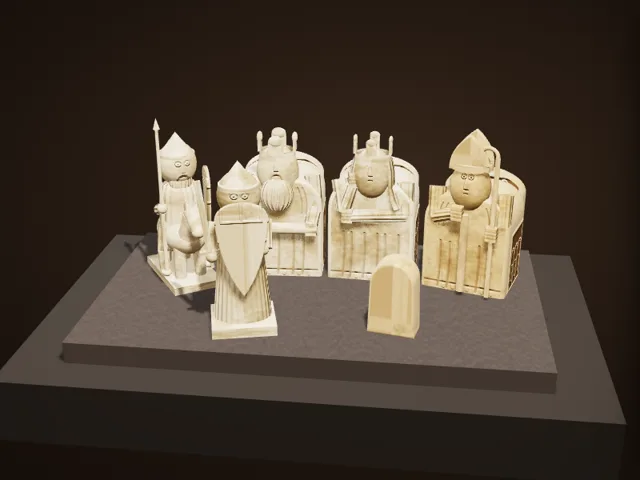
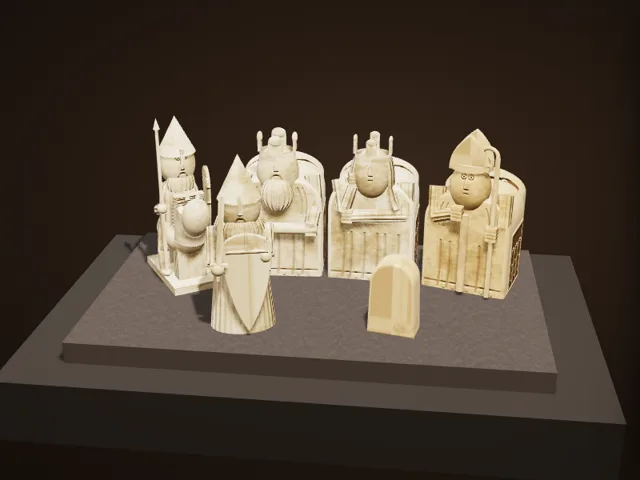
博物館：ルイス島のチェス駒の見張りと騎士を3Dスキャンに合わせて作り直し
Claude-Session: https://claude.ai/code/session_01EiWRAZTxRF5M5nk5vdR2jJ

Changed region(s): [[0.25, 0.25, 0.4375, 0.7188]]

diff --git a/atlas/museum/ex/lewis.js b/atlas/museum/ex/lewis.js
@@ -7,7 +7,8 @@
    manner of the pieces, not copied from one throne (estimate). The red that Madden saw on a few pieces in 1831 is gone today.
    2026-11-21: the ivory's colour (grey-tan, mottled with brown staining) and the seated pieces' build — one squat block with sloping
    shoulders as wide as the throne, a large long head sunk into it, the throne seen only at the sides and behind — after the British
-   Museum's 3D scans (Sketchfab). The knight and the warder are not yet reworked. */
+   Museum's 3D scans (Sketchfab); the warder and the knight too (pointed helmets with nose guards over long faces, the pony with a
+   large upright head, banded mane and legs carved as solid slabs). */
 (function () {
   'use strict';
   (window.AtlasEx = window.AtlasEx || {}).lewis = {
@@ -209,31 +210,37 @@
         add(p, new TT.BoxGeometry(2.9, .45, 5.2), IV[k], 0, .225, 0);
         const hm = robe(k, 6);
         ball(p, 1.35, hm, 0, 2.75, -.05, .95, .82, 1.75, 22);
-        [[-.62, 1.3], [.62, 1.3], [-.62, -1.4], [.62, -1.4]].forEach(([x, z]) => limb(p, V3(x, .45, z), V3(x * .9, 2.4, z * .95), .32, .4, IV[k], 10));
-        limb(p, V3(0, 3.1, 1.55), V3(0, 4.55, 2.15), .7, .5, IV[k], 14);
-        const hd = limb(p, V3(0, 4.75, 2.05), V3(0, 3.85, 2.95), .48, .36, IV[k], 12); ball(p, .38, IV[k], 0, 3.82, 2.98, 1, .9, 1.1, 12);
-        [-1, 1].forEach(s => { const e = add(p, new TT.ConeGeometry(.12, .4, 8), IV[k], s * .22, 5.1, 2.05); e.rotation.x = -.3; });
-        add(p, new TT.BoxGeometry(.18, .55, 1.9), braid(k), 0, 4.2, 1.75).rotation.x = .75;   // the mane
+        [1.25, -1.35].forEach(z => { const lg = add(p, new TT.BoxGeometry(1.7, 2.1, .85), robe(k, 4), 0, 1.45, z); });   // the legs carved as two solid slabs (front and back pairs), as in the scan
+        // the pony's head: large and upright before the rider's chest, a broad striped mane down its neck (the scan)
+        limb(p, V3(0, 3.0, 1.6), V3(0, 4.9, 2.1), .95, .8, IV[k], 16);
+        const hd = ball(p, 1, IV[k], 0, 4.6, 2.75, .8, 1.25, .75, 18); hd.rotation.x = .35;
+        [-1, 1].forEach(s => { const e = add(p, new TT.ConeGeometry(.16, .5, 8), IV[k], s * .3, 5.85, 2.35); e.rotation.x = -.2; });
+        const mane = add(p, new TT.BoxGeometry(1.75, 1.9, .3), braid(k), 0, 4.75, 1.45); mane.rotation.x = .25;   // the mane, combed in bands
         limb(p, V3(0, 3.0, -2.35), V3(0, .9, -2.6), .3, .2, braid(k), 8);                      // the tail
         // the rider: legs hanging low beside the pony, body, head, helmet
         [-1, 1].forEach(s => { limb(p, V3(s * .95, 3.7, .2), V3(s * 1.28, 2.0, .45), .45, .36, robe(k, 8)); limb(p, V3(s * 1.28, 2.0, .45), V3(s * 1.3, .9, .55), .36, .3, IV[k]); ball(p, .3, IV[k], s * 1.3, .75, .75, 1, .7, 1.5, 10); });
         const tor = add(p, lathe([[1.25, 0], [1.2, .9], [1.15, 1.7], [.95, 2.25], [.5, 2.5], [0, 2.52]], 22), robe(k, 18), 0, 3.6, .05); tor.scale.z = .8;
-        head(p, k, 7.0, .05, { beard: true }); ball(p, .7, beardM(k), 0, 6.05, .5, 1, 1, .55, 14); helmet(p, IV[k], 7.55, 1.03);
+        ball(p, 1, faceS(k, { eye: 92, mouth: 150, moustache: true }), 0, 7.0, .05, 1.05, 1.3, .95, 28); ball(p, .9, beardM(k), 0, 5.95, .5, .95, 1.0, .5, 14);
+        add(p, new TT.ConeGeometry(1.1, 2.1, 24), IV[k], 0, 8.75, .05); add(p, new TT.BoxGeometry(.24, .9, .2), IV[k], 0, 7.65, 1.0);   // pointed helmet, nose guard
         // the shield on the left arm (+x), the spear in the right hand
         const sh = add(p, kite(shieldM(k), 2.2, 4.0), shieldM(k), 1.5, 4.6, .4); sh.rotation.y = Math.PI / 2 - .25;
         limb(p, V3(-1.15, 4.3, -.2), V3(-1.3, 4.7, .9), .34, .3, robe(k, 8)); ball(p, .3, IV[k], -1.35, 4.8, 1.0);
         limb(p, V3(-1.35, 1.0, 1.05), V3(-1.35, 9.4, .95), .12, .1, IV[k], 8); const tip = add(p, new TT.ConeGeometry(.2, .65, 8), IV[k], -1.35, 9.72, .95);
         pieces.push(p); }
-      // WARDER, a "berserker" (1831,1101.123 – 9.2 cm): standing, helmet, biting the top of his shield, sword in the right hand
+      // WARDER (1831,1101.123 – 9.2 cm), after the British Museum's scan: no base plate; a slender bell-shaped body; a tall pointed
+      // helmet with a nose guard that runs straight into the long face and beard; a long kite shield held in front, the sword upright
+      // in the right hand before it
       { const p = new TT.Group(), k = 1;
-        add(p, new TT.BoxGeometry(3.4, .55, 3.0), IV[k], 0, .275, 0);
-        const body = add(p, lathe([[1.55, .55], [1.5, 1.2], [1.3, 3.2], [1.18, 4.3], [1.3, 5.6], [1.15, 6.2], [.6, 6.55], [0, 6.6]], 26), robe(k, 30), 0, 0, -.15); body.scale.z = .74;
-        const hy = 7.35; head(p, k, hy, -.1, { beard: true }); ball(p, .66, beardM(k), 0, hy - .95, .45, 1, .95, .5, 14); helmet(p, IV[k], hy + .55, 1.02);
-        const sh = add(p, kite(shieldM(k), 2.6, 4.9), shieldM(k), .05, hy - 2.55, 1.0); sh.rotation.x = -.06;
-        limb(p, V3(1.25, 5.9, -.2), V3(1.25, 4.6, .6), .42, .36, robe(k, 8)); ball(p, .3, IV[k], 1.1, 4.7, .9);
-        limb(p, V3(-1.25, 5.9, -.2), V3(-1.45, 4.4, .45), .42, .36, robe(k, 8)); ball(p, .3, IV[k], -1.5, 4.3, .6);
-        const sw = new TT.Group(); sw.position.set(-1.55, 4.3, .6); sw.rotation.z = .12;
-        add(sw, new TT.BoxGeometry(.32, 3.9, .1), IV[k], 0, 2.2, 0); add(sw, new TT.BoxGeometry(1.0, .16, .22), IV[k], 0, .28, 0); limb(sw, V3(0, -.6, 0), V3(0, .2, 0), .1, .1, IV[k], 8); p.add(sw);
+        const body = add(p, lathe([[1.75, 0], [1.72, .3], [1.5, 2.5], [1.32, 4.4], [1.38, 5.6], [1.15, 6.2], [.6, 6.5], [0, 6.55]], 26), robe(k, 30), 0, 0, -.15); body.scale.z = .72;
+        const hy = 6.75; ball(p, 1, faceS(k, { eye: 92, mouth: 150, moustache: true }), 0, hy, .05, 1.08, 1.35, .95, 28);
+        ball(p, 1, beardM(k), 0, hy - 1.2, .55, .9, 1.0, .5, 16);
+        const hc = add(p, new TT.ConeGeometry(1.12, 2.3, 24), IV[k], 0, hy + 1.65, .05); hc.scale.z = .95;   // the pointed helmet, no brim
+        add(p, new TT.BoxGeometry(.24, 1.0, .2), IV[k], 0, hy + .45, 1.05);                                  // the nose guard
+        const sh = add(p, kite(shieldM(k), 2.5, 5.3), shieldM(k), .25, 3.0, 1.15); sh.rotation.x = -.04;
+        limb(p, V3(1.3, 5.6, -.2), V3(1.35, 4.2, .7), .42, .36, robe(k, 8)); ball(p, .3, IV[k], 1.2, 4.4, 1.15);
+        limb(p, V3(-1.3, 5.6, -.2), V3(-1.4, 4.0, .9), .42, .36, robe(k, 8)); ball(p, .34, IV[k], -1.25, 3.95, 1.45);
+        const sw = new TT.Group(); sw.position.set(-1.2, 3.95, 1.5); sw.rotation.z = -.08;
+        add(sw, new TT.BoxGeometry(.3, 3.7, .1), IV[k], 0, 2.1, 0); add(sw, new TT.BoxGeometry(.9, .16, .22), IV[k], 0, .26, 0); limb(sw, V3(0, -.6, 0), V3(0, .2, 0), .1, .1, IV[k], 8); p.add(sw);
         pieces.push(p); }
       // PAWN (1831,1101.134 – 4.0 cm): a plain slab with a rounded top
       { const p = new TT.Group(), k = 2;

diff --git a/atlas/museum.js b/atlas/museum.js
@@ -32,7 +32,7 @@
   const ROOMS = [
     { id: 'map', ready: () => !!window.AtlasMap, render: (el, c) => AtlasMap.render(el, c) },
     { id: 'tree', src: ['museum/tree.js?v=2'], ready: () => !!window.AtlasTree, render: (el, c) => AtlasTree.render(el, c) },
-    { id: 'gallery', src: ['museum/gallery.js?v=24'], ready: () => !!window.AtlasGallery, render: (el, c) => AtlasGallery.render(el, c) },
+    { id: 'gallery', src: ['museum/gallery.js?v=25'], ready: () => !!window.AtlasGallery, render: (el, c) => AtlasGallery.render(el, c) },
   ];
   const KEY = 'atlas-museum-room';
   const esc = s => String(s == null ? '' : s).replace(/[&<>"]/g, c => ({ '&': '&amp;', '<': '&lt;', '>': '&gt;', '"': '&quot;' }[c]));

diff --git a/atlas/index.html b/atlas/index.html
@@ -2559,7 +2559,7 @@ window.AtlasRgdTimer = function (btn, ms, alive) {
 <link rel="stylesheet" href="worldmap.css?v=19">
 <link rel="stylesheet" href="museum.css?v=4">
 <script src="worldmap.js?v=40"></script>
-<script src="museum.js?v=25"></script>
+<script src="museum.js?v=26"></script>
 <script src="npc/npc.js?v=46"></script>
 <script src="avtalk.js?v=4"></script>
 <script>/* Page states as classes on <html> (2026-11-21) — html.cov-on: the 3D view / Historia / a sheet / a level sheet is open;

diff --git a/atlas/museum/gallery.js b/atlas/museum/gallery.js
@@ -10,7 +10,7 @@
    (a turn, a zoom, the slow turntable) and never while the window is in the background. */
 (function () {
   'use strict';
-  const V = 24;
+  const V = 25;
   /* ---------- the pieces: id, the game it belongs to, its scale (cm per model unit), the camera's start, the details ----------
      lock: { game, ach } → open after that many achievements of the game. src: the files the piece needs (besides ex/<id>.js) */
   const EX = [

diff --git a/claude/museum-spec.md b/claude/museum-spec.md
@@ -52,7 +52,7 @@
     記録：オスマン帝国の盤のチェス面（V&A 2012FP3719）total 10.8 → 43.1（2026-11-21、濃い鼈甲、4枚組の螺鈿のマスと中央の星、S字の鎖、骨の縁。側面に螺鈿の六角形、板の厚さを記録に合わせ2.5cmに）。
     記録：興福寺の将棋駒（文化遺産オンライン 413142 の写真）2026-11-21：木の色を暖かい黄褐色に、駒を幅と高さがほぼ同じ・肩の低い形に、墨を大きくにじませ木目に沿ってかすれさせた（数値は撮影条件が違うため目視で比較）。
     記録：バリンダリーの盤（Discovery Programme／アイルランド国立博物館の3Dスキャン、Sketchfab）2026-11-21：灰色がかった焦げ茶の木、小さく浅い穴、中央の二重の輪と四隅をまたぐ四分円、すり減った彫りに修正（目視比較）。
-    記録：ルイス島のチェス駒（大英博物館の3Dスキャン、Sketchfab）2026-11-21：象牙の色を灰色がかった黄褐色＋茶色のしみに修正。座像3体（王・王妃・司教）の形を作り直し（肩の落ちた幅広の一塊の体に大きな面長の頭を沈め、玉座は横と後ろだけに見せる）。騎士と見張り（ベルセルク）は未対応。
+    記録：ルイス島のチェス駒（大英博物館の3Dスキャン、Sketchfab）2026-11-21：象牙の色を灰色がかった黄褐色＋茶色のしみに修正。座像3体（王・王妃・司教）の形を作り直し（肩の落ちた幅広の一塊の体に大きな面長の頭を沈め、玉座は横と後ろだけに見せる）。続けて見張りと騎士も（尖った兜と鼻当て、面長の顔、騎士の馬は大きく立った頭・帯状のたてがみ・板状の脚）。
   - スマホで遠目に見たときのちらつき・白飛びがないこと（カメラの near/far を狭く、テクスチャはミップマップと異方性フィルタ、トーンマップの露出 .85、重なる面は polygonOffset）。
 - 収蔵品（2026-11-21）：
   - ウルの王族のゲーム盤（大英博物館 120834）— ポータルのウルの3D盤（`atlas/models/ur.js`）をそのまま使う（実物そっくりの出来）。
